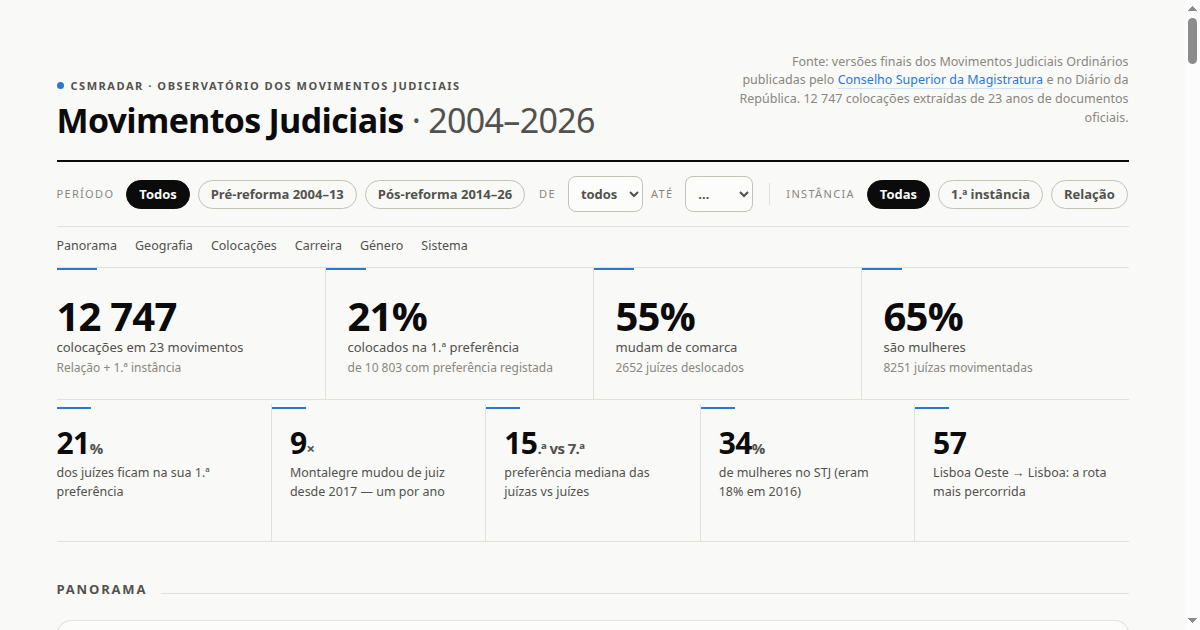
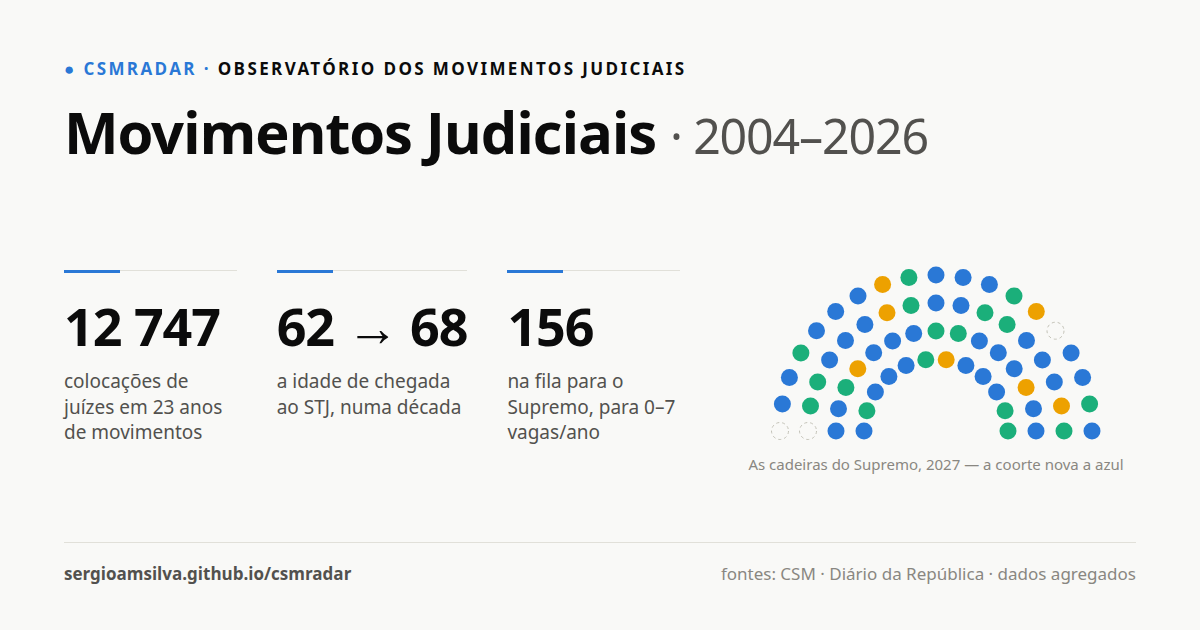
Abertura renovada: os cinco números passam a incluir a idade de chegada ao STJ (62 para 68) e a fila para o Supremo; novo cartão social com o hemiciclo das cadeiras

diff --git a/index.html b/index.html
@@ -2,7 +2,7 @@
 <meta name="viewport" content="width=device-width, initial-scale=1">
 <meta name="description" content="Observatório dos movimentos judiciais em Portugal, 2004–2026: análise de 12 747 colocações de juízes a partir das divulgações oficiais do Conselho Superior da Magistratura e do Diário da República.">
 <meta property="og:title" content="csmRadar · Movimentos Judiciais em Portugal, 2004–2026">
-<meta property="og:description" content="12 747 colocações de juízes em 23 anos: fluxos entre comarcas, preferências, carreira e género, a partir dos documentos oficiais do CSM e do Diário da República.">
+<meta property="og:description" content="12 747 colocações de juízes em 23 anos: fluxos entre comarcas, preferências, carreira, género, idades estimadas, o gargalo do STJ e a fila para o Supremo — a partir dos documentos oficiais do CSM e do Diário da República.">
 <meta property="og:type" content="website">
 <meta property="og:url" content="https://sergioamsilva.github.io/csmradar/">
 <meta property="og:image" content="https://sergioamsilva.github.io/csmradar/og.png">
@@ -1857,25 +1857,10 @@
     var comPref = DATA.filter(function (r) { return r[PREF] != null; });
     var p1 = Math.round(100 * comPref.filter(function (r) { return r[PREF] === 1; }).length / comPref.length);
 
-    var cnt = {};
-    DATA.forEach(function (r) {
-      if (r[ANO] < 2017 || !r[DCOM]) return;
-      var parts = r[DST].split(" > ");
-      var i = -1;
-      for (var j = 0; j < parts.length; j++) if (parts[j].indexOf("TJ Comarca") === 0) { i = j; break; }
-      if (i === -1 || parts.length < i + 3 || !/^ju[íi]?z/i.test(parts[i + 2])) return;
-      var k = parts[i + 1] + " · " + parts[i + 2];
-      cnt[k] = (cnt[k] || 0) + 1;
-    });
-    var topLugar = Object.keys(cnt).sort(function (a, b) { return cnt[b] - cnt[a]; })[0] || "";
-    var topLugarCurto = topLugar.split(" · ")[0].replace(/Juízo de competência genérica (de |da |do )?/i, "");
-
     function medPref(g) {
       return Math.round(median(DATA.filter(function (r) { return r[GEN] === g && r[PREF] != null; })
         .map(function (r) { return r[PREF]; })) || 0);
     }
-    var stj = QGEN.filter(function (q) { return q[1] === "STJ"; });
-    var stj0 = stj[0], stj1 = stj[stj.length - 1];
 
     var rotas = {};
     DATA.forEach(function (r) {
@@ -1888,11 +1873,23 @@
 
     var itens = [
       { v: p1, suf: "%", fr: "dos juízes ficam na sua 1.ª preferência", a: "#sec-colocacoes" },
-      { v: cnt[topLugar] || 0, suf: "×", fr: topLugarCurto + " mudou de juiz desde 2017 — um por ano", a: "#sec-colocacoes" },
       { v: medPref("F"), suf: ".ª vs " + medPref("M") + ".ª", fr: "preferência mediana das juízas vs juízes", a: "#sec-genero" },
-      { v: stj1 ? Math.round(100 * stj1[3] / stj1[2]) : 0, suf: "%", fr: "de mulheres no STJ (eram " + (stj0 ? Math.round(100 * stj0[3] / stj0[2]) : 0) + "% em " + (stj0 ? stj0[0] : "") + ")", a: "#sec-genero" },
       { v: rotas[topRota] || 0, suf: "", fr: topRota + ": a rota mais percorrida", a: "#sec-panorama" },
     ];
+    if (PAYLOAD.fila && PAYLOAD.fila.promoIdade) {
+      var pi = PAYLOAD.fila.promoIdade.filter(function (r) { return r[1] != null; });
+      var pi0 = pi[0], pi1 = pi[pi.length - 1];
+      itens.splice(1, 0, {
+        v: Math.round(pi1[1]), suf: " anos",
+        fr: "a idade de chegada ao STJ (era " + Math.round(pi0[1]) + " em " + pi0[0] + ")",
+        a: "#sec-sistema",
+      });
+      itens.splice(3, 0, {
+        v: PAYLOAD.fila.n, suf: "",
+        fr: "desembargadores na fila para o Supremo — para 0–7 vagas por ano",
+        a: "#sec-sistema",
+      });
+    }
     renderDestaques.__itens = itens;
     $("destaques").innerHTML = itens.map(function (it) {
       return '<a class="dest reveal" href="' + it.a + '"><span class="rule"></span>' +

diff --git a/scripts/template.html b/scripts/template.html
@@ -2,7 +2,7 @@
 <meta name="viewport" content="width=device-width, initial-scale=1">
 <meta name="description" content="Observatório dos movimentos judiciais em Portugal, 2004–2026: análise de 12 747 colocações de juízes a partir das divulgações oficiais do Conselho Superior da Magistratura e do Diário da República.">
 <meta property="og:title" content="csmRadar · Movimentos Judiciais em Portugal, 2004–2026">
-<meta property="og:description" content="12 747 colocações de juízes em 23 anos: fluxos entre comarcas, preferências, carreira e género, a partir dos documentos oficiais do CSM e do Diário da República.">
+<meta property="og:description" content="12 747 colocações de juízes em 23 anos: fluxos entre comarcas, preferências, carreira, género, idades estimadas, o gargalo do STJ e a fila para o Supremo — a partir dos documentos oficiais do CSM e do Diário da República.">
 <meta property="og:type" content="website">
 <meta property="og:url" content="https://sergioamsilva.github.io/csmradar/">
 <meta property="og:image" content="https://sergioamsilva.github.io/csmradar/og.png">
@@ -1857,25 +1857,10 @@
     var comPref = DATA.filter(function (r) { return r[PREF] != null; });
     var p1 = Math.round(100 * comPref.filter(function (r) { return r[PREF] === 1; }).length / comPref.length);
 
-    var cnt = {};
-    DATA.forEach(function (r) {
-      if (r[ANO] < 2017 || !r[DCOM]) return;
-      var parts = r[DST].split(" > ");
-      var i = -1;
-      for (var j = 0; j < parts.length; j++) if (parts[j].indexOf("TJ Comarca") === 0) { i = j; break; }
-      if (i === -1 || parts.length < i + 3 || !/^ju[íi]?z/i.test(parts[i + 2])) return;
-      var k = parts[i + 1] + " · " + parts[i + 2];
-      cnt[k] = (cnt[k] || 0) + 1;
-    });
-    var topLugar = Object.keys(cnt).sort(function (a, b) { return cnt[b] - cnt[a]; })[0] || "";
-    var topLugarCurto = topLugar.split(" · ")[0].replace(/Juízo de competência genérica (de |da |do )?/i, "");
-
     function medPref(g) {
       return Math.round(median(DATA.filter(function (r) { return r[GEN] === g && r[PREF] != null; })
         .map(function (r) { return r[PREF]; })) || 0);
     }
-    var stj = QGEN.filter(function (q) { return q[1] === "STJ"; });
-    var stj0 = stj[0], stj1 = stj[stj.length - 1];
 
     var rotas = {};
     DATA.forEach(function (r) {
@@ -1888,11 +1873,23 @@
 
     var itens = [
       { v: p1, suf: "%", fr: "dos juízes ficam na sua 1.ª preferência", a: "#sec-colocacoes" },
-      { v: cnt[topLugar] || 0, suf: "×", fr: topLugarCurto + " mudou de juiz desde 2017 — um por ano", a: "#sec-colocacoes" },
       { v: medPref("F"), suf: ".ª vs " + medPref("M") + ".ª", fr: "preferência mediana das juízas vs juízes", a: "#sec-genero" },
-      { v: stj1 ? Math.round(100 * stj1[3] / stj1[2]) : 0, suf: "%", fr: "de mulheres no STJ (eram " + (stj0 ? Math.round(100 * stj0[3] / stj0[2]) : 0) + "% em " + (stj0 ? stj0[0] : "") + ")", a: "#sec-genero" },
       { v: rotas[topRota] || 0, suf: "", fr: topRota + ": a rota mais percorrida", a: "#sec-panorama" },
     ];
+    if (PAYLOAD.fila && PAYLOAD.fila.promoIdade) {
+      var pi = PAYLOAD.fila.promoIdade.filter(function (r) { return r[1] != null; });
+      var pi0 = pi[0], pi1 = pi[pi.length - 1];
+      itens.splice(1, 0, {
+        v: Math.round(pi1[1]), suf: " anos",
+        fr: "a idade de chegada ao STJ (era " + Math.round(pi0[1]) + " em " + pi0[0] + ")",
+        a: "#sec-sistema",
+      });
+      itens.splice(3, 0, {
+        v: PAYLOAD.fila.n, suf: "",
+        fr: "desembargadores na fila para o Supremo — para 0–7 vagas por ano",
+        a: "#sec-sistema",
+      });
+    }
     renderDestaques.__itens = itens;
     $("destaques").innerHTML = itens.map(function (it) {
       return '<a class="dest reveal" href="' + it.a + '"><span class="rule"></span>' +